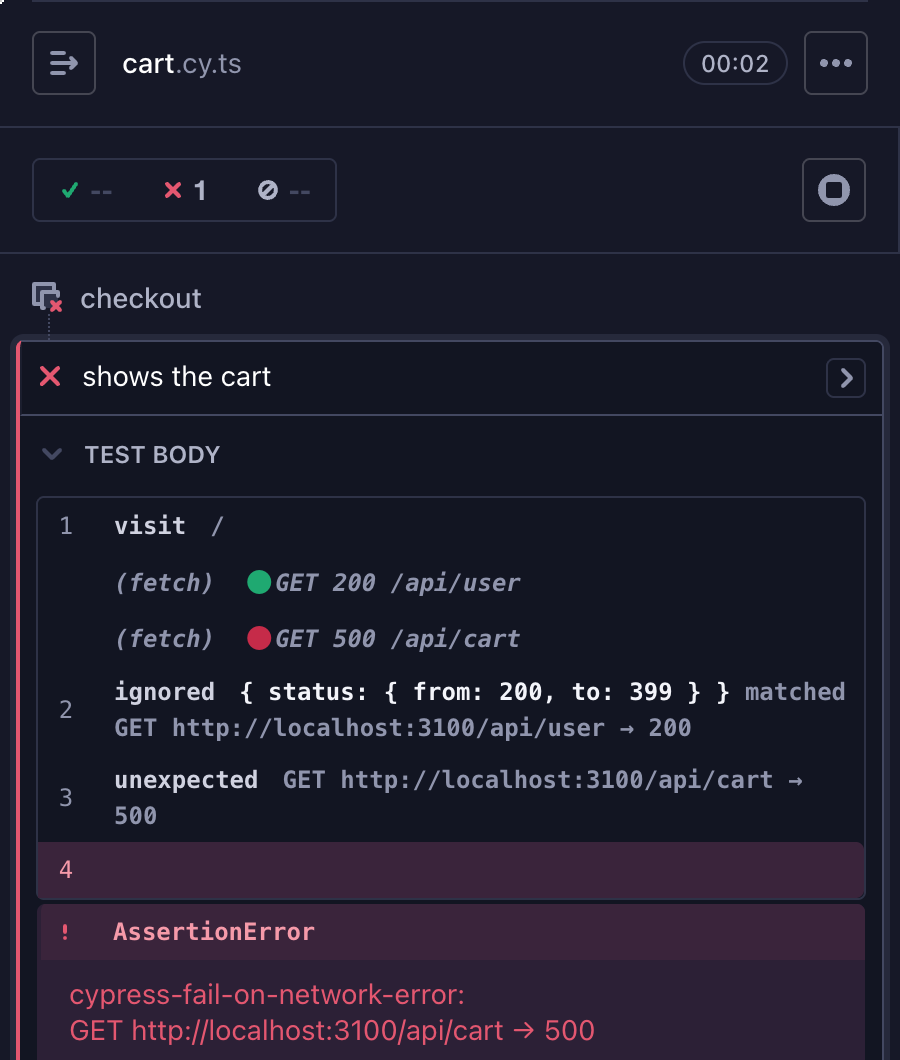
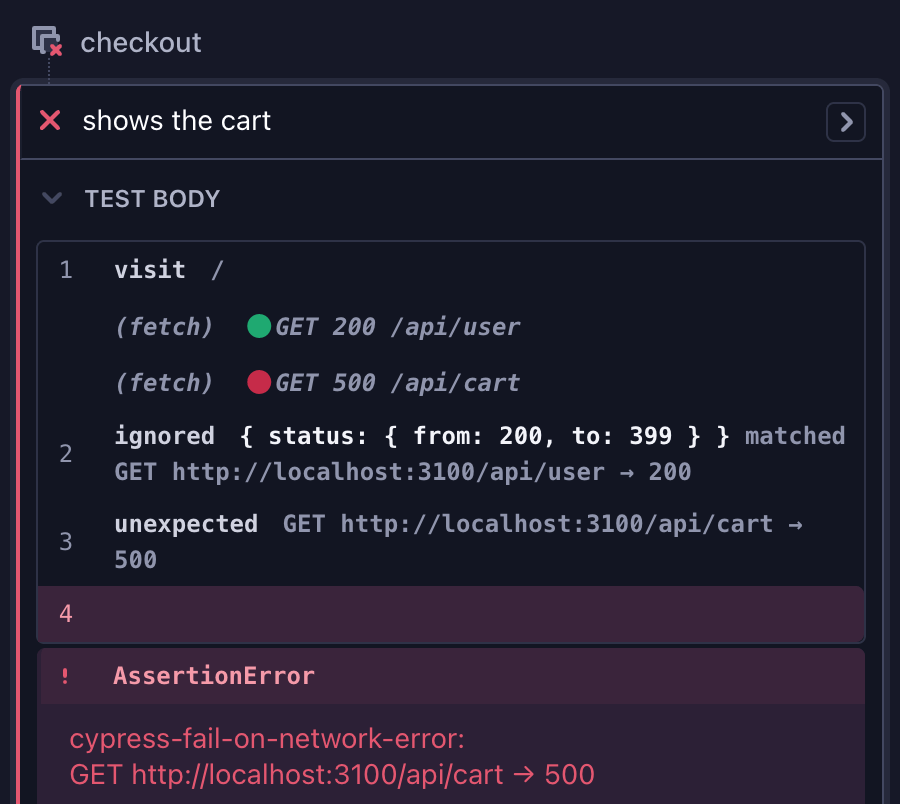
Shorten the README
Prefer url strings and globs over regular expressions in the examples,
drop details users don't need, make the section headings consistent,
crop and compress the screenshots and show them at a scale of 1, and
move the contributing steps to CONTRIBUTING.md.

diff --git a/README.md b/README.md
@@ -26,13 +26,13 @@ failOnNetworkError();
 
 An XHR or `fetch` request fails the test when it gets an error response (`400` or higher) or no response at all. It is logged to the command log:
 
-![An unexpected request in the Cypress command log and the failed test's error](./docs/commandLog.png)
+<img src="./docs/commandLog.png" width="450" alt="An unexpected request in the Cypress command log and the failed test's error">
 
-## Config (optional)
+## Configuration
 
 | Option           | Default | Description |
 | ---------------- | ------- | ----------- |
-| `ignoreRequests` | `[{ status: { from: 100, to: 399 } }]` | Requests that don't fail a test, as `string` (shorthand for `{ url }`), `{ url, method, status, predicate }`, or a function (shorthand for `{ predicate }`). A request that matches any entry is excluded. Your list replaces the default, so keep its entry to ignore successful responses, or use `[]` to fail on every request. |
+| `ignoreRequests` | `[{ status: { from: 100, to: 399 } }]` | Requests that don't fail a test, see [Matching requests](#matching-requests). Your list replaces the default, so keep its entry to ignore successful responses, or use `[]` to fail on every request. |
 | `debug` | `false` | Also logs each request that `ignoreRequests` ignores, with the entry that matched it. See [Debugging](#debugging). |
 
 ```ts
@@ -43,26 +43,27 @@ const config: Config = {
         { status: { from: 100, to: 399 } }, // keep the default
         'analytics', // any request whose URL contains "analytics"
         { url: '/api/*/avatar', status: 404 }, // a glob
-        { url: /\/api\/feature-flags/, method: 'GET', status: 404 },
+        { url: '/api/feature-flags', method: 'GET', status: 404 },
         { method: 'POST', status: 409 }, // a 409 from any POST request
         { method: ['HEAD', 'OPTIONS'] }, // any HEAD or OPTIONS request
-        ({ url, status }) => status === 404 && url.endsWith('.map'),
+        // responses that the server marks as expected
+        ({ responseHeaders }) => responseHeaders?.['x-expected-error'] === 'true',
     ],
 };
 
 failOnNetworkError(config);
 ```
 
-### How requests are matched
+### Matching requests
 
-- Every field an entry sets must match. A field it leaves out matches any value.
-- `url` is a `string` or a `RegExp`. A string matches when the URL contains it, such as `'/api/users'`, or when it matches as a [glob](https://on.cypress.io/minimatch), as in `cy.intercept()`, such as `'**/*.map'` or `'/api/*/users'`. A `RegExp` matches anywhere in the full URL.
-- `method` is any HTTP method, such as `GET`, `HEAD` or `OPTIONS`, in any case, or a list of methods, which matches any of them.
-- `status` is a number, or a range `{ from, to }` that includes both ends.
-- `predicate` is a function that gets the request's `method`, `url`, `requestHeaders`, and `status` and `responseHeaders` or `error`, and excludes it when it returns `true`. Header names are lower case, for example `({ responseHeaders }) => responseHeaders?.['x-expected-error'] === 'true'`. Request and response bodies are not available. It is called only when the other fields of its entry match. An error it throws fails the test.
-- A request that fails without a response, for example when the connection is refused, has no status. Only entries without `status` match it.
+An entry is an object with any of `url`, `method`, `status` and `predicate`. A string is shorthand for `{ url }`, and a function for `{ predicate }`. A request that matches any entry is ignored. Within an entry, every field it sets must match.
 
-## Change the config in a test
+- `url` is a `string` or a `RegExp`. A string matches when the URL contains it, such as `'/api/users'`, or as a [glob](https://on.cypress.io/minimatch), as in `cy.intercept()`, such as `'/api/*/users'`. A `RegExp` matches anywhere in the full URL.
+- `method` is an HTTP method, such as `'GET'`, in any case, or a list of methods.
+- `status` is a number, or a range `{ from, to }` that includes both ends. A request without a response, for example when the connection is refused, has no status, so only entries without `status` match it.
+- `predicate` gets the request's `method`, `url`, `requestHeaders`, and `status` and `responseHeaders` or `error`, and ignores the request when it returns `true`. Header names are lower case. Request and response bodies are not available.
+
+## Ignoring requests in one test
 
 To change the ignored requests in a test, and to wait for pending requests, register the commands in your support file:
 
@@ -79,7 +80,7 @@ Then use them in a test. Changes last until the end of the test.
 
 ```ts
 it('should tolerate an unavailable recommendations service', () => {
-    cy.addIgnoredRequests([{ url: /\/api\/recommendations/, status: 503 }]);
+    cy.addIgnoredRequests([{ url: '/api/recommendations', status: 503 }]);
     cy.visit('/');
 });
 ```
@@ -87,12 +88,12 @@ it('should tolerate an unavailable recommendations service', () => {
 | Command                                    | Description |
 | ------------------------------------------ | ----------- |
 | `cy.getIgnoredRequests()`                  | Yields `ignoreRequests`. |
-| `cy.setIgnoredRequests(['foo', { url: /bar/ }])`    | Replaces `ignoreRequests`, including the default entry. |
+| `cy.setIgnoredRequests(['/api/cart'])`     | Replaces `ignoreRequests`, including the default entry. |
 | `cy.addIgnoredRequests([{ status: 404 }])` | Adds to `ignoreRequests`. |
-| `cy.deleteIgnoredRequests(['foo'])`        | Removes equal entries from `ignoreRequests`, in any form: `'foo'` removes `{ url: 'foo' }`, and a predicate only the same function. |
-| `cy.waitForRequests(timeout)`              | Waits for pending requests, see [below](#wait-for-pending-requests). |
+| `cy.deleteIgnoredRequests(['/api/cart'])`  | Removes equal entries from `ignoreRequests`. |
+| `cy.waitForRequests(timeout)`              | Waits for pending requests, see [below](#waiting-for-pending-requests). |
 
-To change other options, use `getConfig()` and `setConfig()`, which `failOnNetworkError()` returns. `setConfig()` accepts every form of entry:
+To change `debug` in a test, use `getConfig()` and `setConfig()`, which `failOnNetworkError()` returns:
 
 ```ts
 const { getConfig, setConfig } = failOnNetwork;
@@ -100,7 +101,7 @@ const { getConfig, setConfig } = failOnNetwork;
 Cypress.Commands.add('setDebug', (debug) => setConfig({ ...getConfig(), debug }));
 ```
 
-## Wait for pending requests
+## Waiting for pending requests
 
 A response that arrives after the test's last command is not checked. To check slow requests too, end the test with `cy.waitForRequests()`, which `addIgnoredRequestsCommands()` registers:
 
@@ -111,7 +112,7 @@ it('should check every request the page makes', () => {
 });
 ```
 
-`cy.waitForRequests(timeout = 10000)` waits until every request of the current test has a response or has failed. It checks every 500 ms, starting 500 ms after the command runs, so it also sees requests the page has just made. When the timeout passes first, the test continues without an error.
+`cy.waitForRequests(timeout = 10000)` waits until every request of the current test has a response or has failed. When the timeout passes first, the test continues without an error.
 
 ## Debugging
 
@@ -126,12 +127,8 @@ failOnNetworkError({
 });
 ```
 
-![An ignored request and an unexpected one in the Cypress command log](./docs/debugTrue.png)
+<img src="./docs/debugTrue.png" width="450" alt="An ignored request and an unexpected one in the Cypress command log">
 
 ## Contributing
 
-1. Open an issue that describes the problem and the expected behavior.
-2. Install dependencies with `npm ci`. The integration tests run Cypress in Chrome, which must be installed. `BROWSER=firefox` runs them in Firefox. CI runs Chrome and Firefox.
-3. Make your change in `src/` and run `npm run build`. The tests run against `dist/`, which is not committed.
-4. Run `npm run verify` (build, type check, format check, unit and integration tests). It must pass.
-5. Open a PR with the implementation and tests. Don't change the version in `package.json`: the maintainer releases from GitHub Actions, which increases the version.
+See [CONTRIBUTING.md](CONTRIBUTING.md).

diff --git a/.github/copilot-instructions.md b/.github/copilot-instructions.md
@@ -18,6 +18,7 @@
     - `/xhr?status=&delay=` responds to any method with `status` after `delay` milliseconds (default `0`). `status=none` closes the connection without a response instead, which Cypress reports as a `request:error`. Electron and Firefox retry such a request, and each retry is a new request.
     - `GET /resources` serves a page that loads a script, a stylesheet and an image from the server, and sends one XHR.
 - `README.md`: user documentation. Update it whenever public API or behavior changes. Do not document config validation there: an invalid config fails with a message that explains itself.
+- `CONTRIBUTING.md`: setup and checks for contributors. Keep it in step with Build and test below.
 
 ## Build and test
 
@@ -74,7 +75,7 @@ Do not change `version` in `package.json` in a pull request; the Release workflo
 - `ignoreRequests` defaults to `[{ status: { from: 100, to: 399 } }]` (`defaultIgnoreRequests`, since 2.0). A user's list, including `[]`, replaces the default instead of adding to it, so 1.x configs behave as before, `[]` fails every request, and `getConfig()` shows every entry that applies. `cy.setIgnoredRequests()` replaces the default entry too. `createConfig` normalizes the default for each config, so a change to an entry of `getConfig()` does not reach the next test or a later call.
 - Entries are OR'd: a request is excluded if any entry matches. Fields within one entry are AND'd, and an omitted field matches any value.
 - A numeric `status` is normalized to a `{ from, to }` range with both ends equal, and a reversed range has its ends swapped. A range matches statuses from `from` to `to`, including both ends; a request without a status never matches an entry that sets `status`.
-- The failure message is the prefix line followed by one line per request that failed since the last `command:end`, `METHOD url → status` (or the error for a request without a response), from `requestToString`. Before throwing, `command:end` logs each failing request with `Cypress.log` as `unexpected` (not `request`, which Cypress's own network entries use), whose `consoleProps` show the request, its status or error and the entries tried. With `debug: true` it also logs each ignored request as `ignored`, with the matching entry written by `entryToString`. Messages go through `escapeMarkdown`, because the command log renders Markdown. The `request:event` listener collects the checked requests and `command:end` logs them, because `Cypress.log` belongs inside the command queue. `docs/commandLog.png` and `docs/debugTrue.png` show both; retake them when the message or the log entries change, with a throwaway project that is not committed: a page that fetches `/api/user` (`200`) and then `/api/cart` (`500`), `ignoreRequests: [{ status: { from: 200, to: 399 } }]`, a spec `cart.cy.ts` with `describe('checkout')` and `it('shows the cart')` that visits the page and calls `cy.waitForRequests()`, a second test that calls `cy.screenshot('runner', { capture: 'runner', log: false, clip: { x: 0, y: 0, width: 450, height } })` with the height ending below the error, and Chrome launched with `--force-device-scale-factor=2 --window-size=1400,2200`.
+- The failure message is the prefix line followed by one line per request that failed since the last `command:end`, `METHOD url → status` (or the error for a request without a response), from `requestToString`. Before throwing, `command:end` logs each failing request with `Cypress.log` as `unexpected` (not `request`, which Cypress's own network entries use), whose `consoleProps` show the request, its status or error and the entries tried. With `debug: true` it also logs each ignored request as `ignored`, with the matching entry written by `entryToString`. Messages go through `escapeMarkdown`, because the command log renders Markdown. The `request:event` listener collects the checked requests and `command:end` logs them, because `Cypress.log` belongs inside the command queue. `docs/commandLog.png` and `docs/debugTrue.png` show both; retake them when the message or the log entries change, with a throwaway project that is not committed: a page that fetches `/api/user` (`200`) and then `/api/cart` (`500`), `ignoreRequests: [{ status: { from: 200, to: 399 } }]`, a spec `cart.cy.ts` with `describe('checkout')` and `it('shows the cart')` that visits the page and calls `cy.waitForRequests()`, a second test that calls `cy.screenshot('runner', { capture: 'runner', log: false, clip: { x: 0, y: 128, width: 450, height } })`, which starts below the test counts, with the height ending below the error, and Chrome launched with `--force-device-scale-factor=2 --window-size=1400,2200`. Compress the result with `pngquant --quality 85-100 --strip`. The README shows both at `width="450"`, their size at a scale of 1.
 - Never throw inside the `request:event` listener. Cypress delivers that event from the server outside the command queue, so an error thrown there becomes an uncaught exception: Cypress says it "originated from your application code", and a project's `uncaught:exception` handler that returns `false` hides it. Record the failure and throw it from `command:end`, as cypress-fail-on-console-error does. A failure recorded after the test's last command is dropped by `test:after:run`.
 - A request that the browser cancels, because the page aborted it or navigated away, does not fail the test. Chrome reports it as a `request:error` whose message starts with `CDP Fetch request canceled by the browser:` (seen with Cypress 16.1.1, from its CDP Fetch transport); the error has no other field that marks a cancellation, so `isCancelledByBrowser` matches the start of that message only. Electron and Firefox send no event for it. On `window:unload` every request still pending is marked `cancelled`, so `waitForRequests` stops waiting for it; a response that still arrives is checked. A request the page aborts without unloading stays pending in Electron and Firefox until `waitForRequests` times out. `shouldIgnoreCancelledRequests` covers the Chrome half in Chrome and the unload half in Firefox, so it needs both CI jobs.
 - A second `failOnNetworkError()` call replaces the first: it stores a marker on the `Cypress` object under `Symbol.for('cypress-fail-on-network-error')` (the support file and a spec can be separate bundles, each with its own module state), every listener returns early when its call is no longer the active one, and the second call logs a `console.warn`. A call whose config fails validation does not replace the active one. Throwing instead would be a breaking change.

diff --git a/CONTRIBUTING.md b/CONTRIBUTING.md
@@ -1,0 +1,7 @@
+# Contributing
+
+1. Open an issue that describes the problem and the expected behavior.
+2. Install dependencies with `npm ci`. The integration tests run Cypress in Chrome, which must be installed. `BROWSER=firefox` runs them in Firefox. CI runs Chrome and Firefox.
+3. Make your change in `src/` and run `npm run build`. The tests run against `dist/`, which is not committed.
+4. Run `npm run verify` (build, type check, format check, unit and integration tests). It must pass.
+5. Open a PR with the implementation and tests. Don't change the version in `package.json`: the maintainer releases from GitHub Actions, which increases the version.
